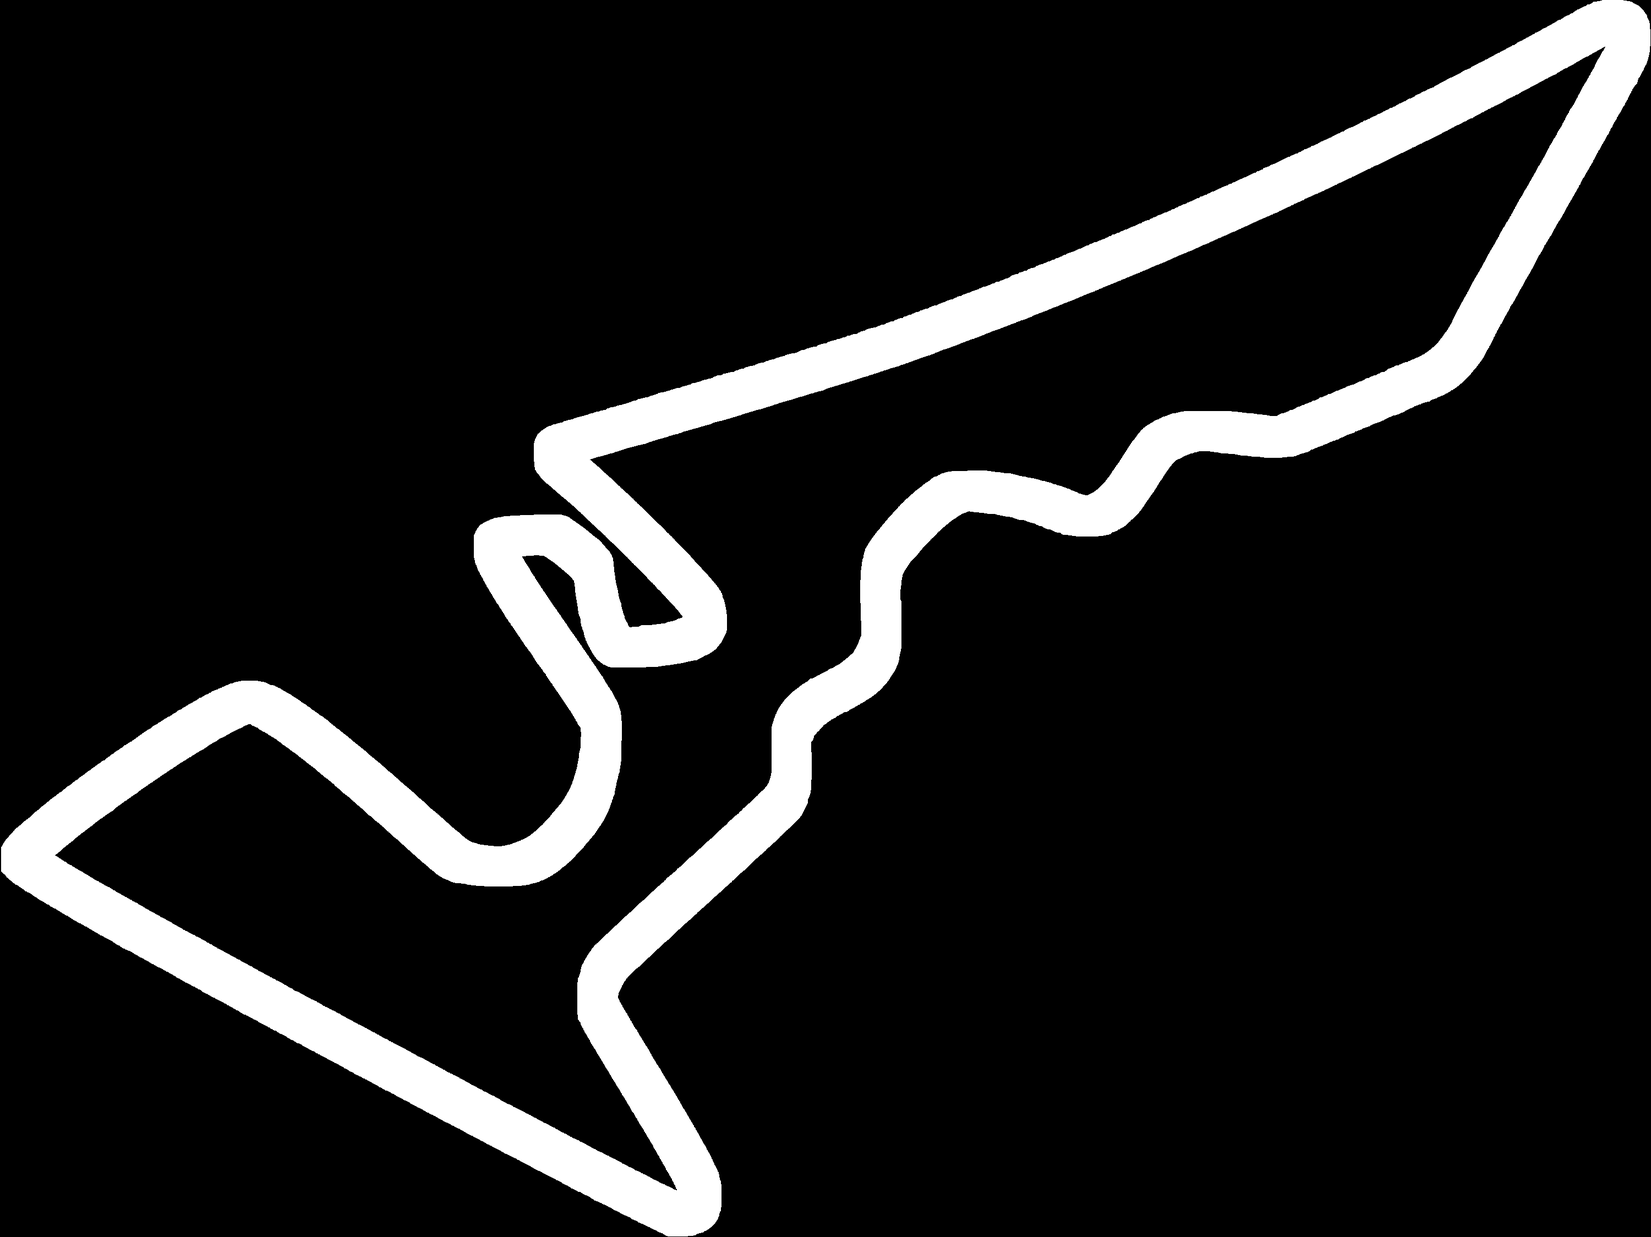
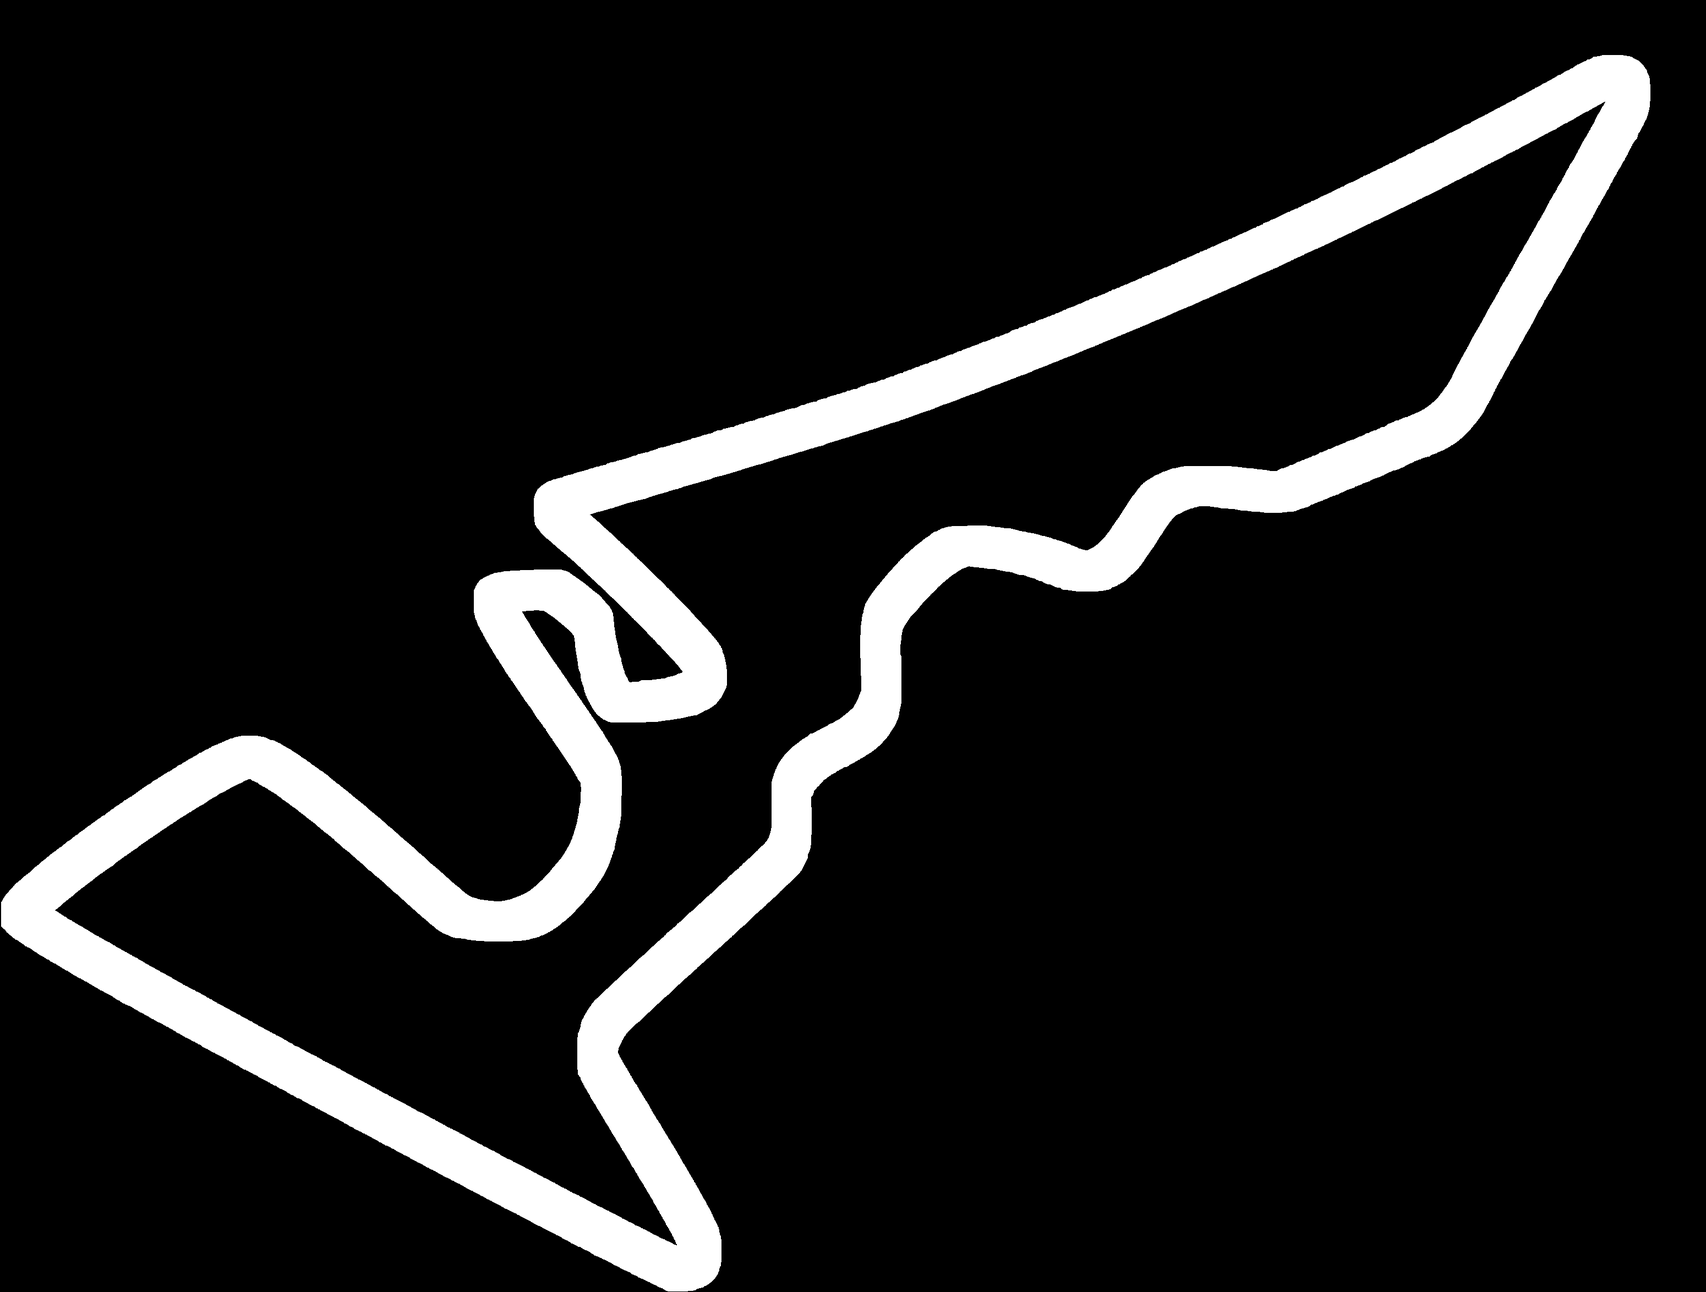
close COTA map boundary and adopt two-lap flying, out-lap, standing and robustness evaluation protocol

diff --git a/src/racing_line_learner/eval/laps.py b/src/racing_line_learner/eval/laps.py
@@ -1,63 +1,95 @@
-"""Lap-time evaluation: flying laps, standing starts and start-point robustness.
+"""Lap-time evaluation protocol.
 
-Three modes, all with a deterministic policy:
+All modes use a deterministic policy and start points derived from track
+geometry only (never chosen from model results):
 
 ``flying`` (headline)
-    Like qualifying: spawn about a tenth of a lap (at least 50 m) before the
-    start/finish line (:meth:`Track.flying_start_waypoint`), build speed on
-    the out-lap, time one lap from line to line.
-``standing``
-    From the track's start pose, clock running from rest, one lap to the line.
-``robustness``
-    One lap from each of ``n_starts`` points spread around the track (timed
-    back to the start point). A reliability diagnostic, not a lap-time metric.
+    Like qualifying: start on the grid, drive one untimed warm-up lap, then
+    time lap 2 from start/finish line to start/finish line. The car crosses
+    the line in its mid-race state, so no out-lap start point is involved.
+``outlap`` (cheap stand-in for ``flying``)
+    Start a fixed distance before the line (:meth:`Track.outlap_start_waypoint`,
+    moved to a corner exit if it falls mid-corner) and time one lap. Valid for
+    a track when its line-crossing speed matches the two-lap protocol's
+    (compare ``line_speed_mean`` of the two modes).
+``standing`` (diagnostic)
+    From the grid, clock running from rest, one lap.
+``robustness`` (diagnostic)
+    One lap from each of ``n_starts`` points spread around the track, timed
+    back to the start point. Measures reliability, not pace.
 
-The simulator and a deterministic policy are exactly repeatable, so flying and
-standing laps are run ``repeats`` times from start poses perturbed by small
-Gaussian offsets (``jitter_xy`` metres, ``jitter_theta`` radians) to get a
-mean and spread.
+The simulator and a deterministic policy are exactly repeatable, so flying,
+out-lap and standing laps are run ``repeats`` times from start poses with small
+Gaussian offsets (``jitter_xy`` metres, ``jitter_theta`` radians) to get a mean
+and spread.
 """
 
 from dataclasses import replace
-from typing import Any, Dict, List, Optional, Sequence
+from typing import Any, Dict, List, Sequence
 
 import numpy as np
 
 from ..config import EnvConfig
 
-MODES = ("flying", "standing", "robustness")
-DEFAULT_MAX_SIM_STEPS = 30000   # 300 s: generous for one lap plus an out-lap
+MODES = ("flying", "outlap", "standing", "robustness")
+DEFAULT_MAX_SIM_STEPS = 30000   # 300 s: two laps on every registered track
 
 
 def _r(x, nd=2):
     return None if x is None else round(float(x), nd)
 
 
-def drive(model, env, pose=None, spawn_idx=None, max_policy_steps: int = 20000) -> Dict[str, Any]:
-    """One deterministic episode; returns how it ended and the lap time if any."""
+def drive(model, env, pose=None, spawn_idx=None, max_policy_steps: int = 40000) -> Dict[str, Any]:
+    """One deterministic episode: how it ended, every lap time, and the speed at each line crossing."""
     obs = env.reset(pose=pose) if pose is not None else env.reset(spawn_idx=spawn_idx)
+    timer = getattr(env, "_lap_timer", None)
+    line_timing = env.config.lap_timing == "line"
     info: Dict[str, Any] = {}
     speeds: List[float] = []
+    laps: List[float] = []
+    line_speeds: List[float] = []
+    was_running = bool(timer.running) if line_timing else True
     for _ in range(max_policy_steps):
         action, _ = model.predict(obs, deterministic=True)
         obs, _, done, info = env.step(action)
         speeds.append(info.get("speed", 0.0))
+        if "lap_time" in info:
+            laps.append(info["lap_time"])
+            line_speeds.append(info.get("speed", 0.0))
+        elif line_timing and timer.running and not was_running:   # clock started at the line (out-lap)
+            line_speeds.append(info.get("speed", 0.0))
+        if line_timing:
+            was_running = bool(timer.running)
         if done:
             break
     return {
         "termination": info.get("termination"),
-        "lap_time": _r(info.get("lap_time"), 3),
+        "lap_times": [_r(t, 3) for t in laps],
+        "line_speeds": [_r(v) for v in line_speeds],
         "waypoint": info.get("current_waypoint_idx"),
         "mean_speed": _r(np.mean(speeds)) if speeds else None,
         "max_speed": _r(np.max(speeds)) if speeds else None,
     }
 
 
-def _summary(runs: Sequence[Dict[str, Any]]) -> Dict[str, Any]:
-    laps = [r["lap_time"] for r in runs if r["termination"] == "lap_complete" and r["lap_time"] is not None]
+def _timed(run: Dict[str, Any], mode: str):
+    """The lap that counts for a mode, and the speed when its clock started (None if not completed)."""
+    if run["termination"] != "lap_complete":
+        return None, None
+    if mode == "flying":   # lap 2; its clock started as lap 1 finished
+        return (run["lap_times"][1], run["line_speeds"][0]) if len(run["lap_times"]) >= 2 else (None, None)
+    if mode == "outlap":
+        return run["lap_times"][0], (run["line_speeds"][0] if run["line_speeds"] else None)
+    return run["lap_times"][0], None
+
+
+def _summary(runs: Sequence[Dict[str, Any]], mode: str) -> Dict[str, Any]:
+    timed = [_timed(r, mode) for r in runs]
+    laps = [t for t, _ in timed if t is not None]
+    line_speeds = [v for t, v in timed if t is not None and v is not None]
     fails: Dict[int, int] = {}
-    for r in runs:
-        if r["termination"] != "lap_complete":
+    for r, (t, _) in zip(runs, timed):
+        if t is None:
             fails[r["waypoint"]] = fails.get(r["waypoint"], 0) + 1
     return {
         "runs": len(runs),
@@ -66,15 +98,16 @@ def _summary(runs: Sequence[Dict[str, Any]]) -> Dict[str, Any]:
         "lap_time_mean": _r(np.mean(laps), 3) if laps else None,
         "lap_time_std": _r(np.std(laps), 3) if len(laps) > 1 else None,
         "lap_time_best": _r(min(laps), 3) if laps else None,
+        "line_speed_mean": _r(np.mean(line_speeds)) if line_speeds else None,
         "failures_at": [{"waypoint": w, "count": n} for w, n in sorted(fails.items(), key=lambda kv: -kv[1])],
     }
 
 
-def eval_config(config: EnvConfig, lap_timing: str) -> EnvConfig:
-    """The training config with curricula off, one-lap episodes and the given lap timing."""
+def eval_config(config: EnvConfig, lap_timing: str, laps: int = 1) -> EnvConfig:
+    """The training config with curricula off, ``laps``-lap episodes and the given lap timing."""
     if config.reward_mode != "laptime":
         lap_timing = "spawn"   # line timing needs the racing-line projection (laptime mode)
-    return replace(config, spawn_random=0.0, spawn_mix=0.0, spawn_waypoints=(), max_laps=1,
+    return replace(config, spawn_random=0.0, spawn_mix=0.0, spawn_waypoints=(), max_laps=laps,
                    lap_timing=lap_timing, max_episode_steps=DEFAULT_MAX_SIM_STEPS)
 
 
@@ -86,33 +119,34 @@ def evaluate(model, track, config: EnvConfig, modes: Sequence[str] = MODES, repe
     from ..env.wrapper import make_env
 
     track = track if isinstance(track, Track) else load_track(track)
-    rng = np.random.RandomState(seed)
-
-    def jittered(pose):
-        x, y, th = pose
-        return (x + rng.normal(0, jitter_xy), y + rng.normal(0, jitter_xy), th + rng.normal(0, jitter_theta))
-
     out: Dict[str, Any] = {"track": track.name}
     for mode in modes:
         if mode not in MODES:
             raise ValueError(f"unknown mode {mode!r}; choose from {MODES}")
-        if mode == "flying" and config.reward_mode != "laptime":
-            out[mode] = {"skipped": "flying laps need lap_timing='line' (laptime-mode models only)"}
+        if mode == "outlap" and config.reward_mode != "laptime":
+            out[mode] = {"skipped": "out-laps need lap_timing='line' (laptime-mode models only)"}
             continue
-        env = make_env(track, eval_config(config, "spawn" if mode == "robustness" else "line"), seed=seed)
+        rng = np.random.RandomState(seed)   # same offsets for every mode and model
+
+        def jittered(pose):
+            x, y, th = pose
+            return (x + rng.normal(0, jitter_xy), y + rng.normal(0, jitter_xy), th + rng.normal(0, jitter_theta))
+
+        timing = "spawn" if mode == "robustness" else "line"
+        env = make_env(track, eval_config(config, timing, laps=2 if mode == "flying" else 1), seed=seed)
         try:
             if mode == "robustness":
                 n = track.n_waypoints
                 starts = [None] + [int(i) for i in np.linspace(0, n, n_starts, endpoint=False)[1:]]
                 runs = [dict(drive(model, env, spawn_idx=s), start=s) for s in starts]
             else:
-                base = track.spawn_pose(track.flying_start_waypoint()) if mode == "flying" else track.start_pose
+                base = track.spawn_pose(track.outlap_start_waypoint()) if mode == "outlap" else track.start_pose
                 runs = [dict(drive(model, env, pose=jittered(base) if k else base), repeat=k) for k in range(repeats)]
         finally:
             env.close()
-        summary = _summary(runs)
-        if mode == "flying":
-            summary["start_waypoint"] = track.flying_start_waypoint()
+        summary = _summary(runs, mode)
+        if mode == "outlap":
+            summary["start_waypoint"] = track.outlap_start_waypoint()
         summary["per_run"] = runs
         out[mode] = summary
     return out

diff --git a/tests/test_eval.py b/tests/test_eval.py
@@ -61,13 +61,27 @@ class TestLineLapTimer(unittest.TestCase):
 
 
 class TestFlyingStart(unittest.TestCase):
-    def test_out_lap_distance(self):
+    def test_outlap_start_from_geometry(self):
         for name in ("cota", "sepang", "sepang_wide"):
             t = load_track(name)
-            w = t.flying_start_waypoint()
+            w = t.outlap_start_waypoint()
             out_lap = t.length - t.cum_s[w]
-            self.assertGreaterEqual(out_lap, max(50.0, 0.1 * t.length) - 1e-6, name)
-            self.assertLess(out_lap, max(50.0, 0.1 * t.length) + 6.0, name)   # within ~2 waypoints of the target
+            self.assertGreater(w, t.n_waypoints // 2, name)                      # before the line
+            target = max(50.0, 0.1 * t.length)
+            spacing = t.length / t.n_waypoints
+            # At least the target distance (the last waypoint before it), unless moved forward out of a corner.
+            self.assertLessEqual(out_lap, target + 1.5 * spacing, name)
+            self.assertGreater(out_lap, 20.0, name)                               # still a real out-lap
+            self.assertGreaterEqual(t.grip_speed_limit()[w], 12.0, name)         # never mid-corner
+
+    def test_outlap_moves_to_corner_exit(self):
+        t = load_track("cota")
+        grip = t.grip_speed_limit()
+        corner = next(i for i in range(120, 145) if grip[i] < 12.0 and grip[i + 1] < 12.0)
+        spec_w = t.outlap_start_waypoint(min_out_lap_m=t.length - t.cum_s[corner], out_lap_fraction=0.0)
+        self.assertGreater(spec_w, corner)
+        self.assertTrue(np.all(grip[corner:spec_w] < 12.0))
+        self.assertGreaterEqual(grip[spec_w], 12.0)
 
     def test_config_validation(self):
         with self.assertRaises(ValueError):
@@ -105,6 +119,17 @@ class TestLineTimingInSimulator(unittest.TestCase):
         self.assertTrue(env._lap_timer.running)
         self.assertNotEqual(info["termination"], "lap_complete")
 
+    def test_simulator_lap_limit_disabled_with_line_timing(self):
+        from racing_line_learner.env.wrapper import make_env
+        env = make_env("sepang", replace(get_preset("v2"), spawn_random=0.0, lap_timing="line", max_laps=2))
+        self.addCleanup(env.close)
+        obs = env.reset()                                  # spawned on the line, inside the simulator's start zone
+        for _ in range(50):
+            obs, _, done, _ = env.step(np.array([0.0, -0.5], dtype=np.float32))
+            self.assertLess(float(env.env.unwrapped.toggle_list[0]), 2)
+            if done:
+                break
+
     def test_standing_start_runs_clock_from_rest(self):
         from racing_line_learner.env.wrapper import make_env
         env = make_env("sepang", replace(get_preset("v2"), spawn_random=0.0, lap_timing="line", max_laps=1))
@@ -126,17 +151,25 @@ class TestLineTimingInSimulator(unittest.TestCase):
             res = evaluate(driver, "cota", cfg, repeats=2, n_starts=3)
         finally:
             laps.DEFAULT_MAX_SIM_STEPS = old
-        self.assertEqual(res["flying"]["runs"], 2)
-        self.assertEqual(res["standing"]["runs"], 2)
-        self.assertEqual(res["robustness"]["runs"], 3)
-        self.assertEqual(res["flying"]["start_waypoint"], load_track("cota").flying_start_waypoint())
-        for mode in ("flying", "standing", "robustness"):
+        for mode, n in (("flying", 2), ("outlap", 2), ("standing", 2), ("robustness", 3)):
+            self.assertEqual(res[mode]["runs"], n, mode)
+        self.assertEqual(res["outlap"]["start_waypoint"], load_track("cota").outlap_start_waypoint())
+        for mode in ("flying", "outlap", "standing", "robustness"):
             for run in res[mode]["per_run"]:
                 self.assertIn(run["termination"], ("time_limit", "collision", "stagnation", "lap_complete"))
 
-    def test_legacy_model_skips_flying(self):
+    def test_legacy_model_uses_simulator_laps(self):
         from racing_line_learner.eval.laps import eval_config
-        self.assertEqual(eval_config(EnvConfig(), "line").lap_timing, "spawn")
+        cfg = eval_config(EnvConfig(), "line", laps=2)
+        self.assertEqual((cfg.lap_timing, cfg.max_laps), ("spawn", 2))
+
+    def test_timed_lap_selection(self):
+        from racing_line_learner.eval.laps import _summary
+        runs = [{"termination": "lap_complete", "lap_times": [47.0, 45.0], "line_speeds": [12.0, 11.5], "waypoint": 0},
+                {"termination": "collision", "lap_times": [46.8], "line_speeds": [12.1], "waypoint": 72}]
+        s = _summary(runs, "flying")
+        self.assertEqual((s["completed"], s["lap_time_mean"], s["line_speed_mean"]), (1, 45.0, 12.0))
+        self.assertEqual(s["failures_at"], [{"waypoint": 72, "count": 1}])
 
 
 if __name__ == "__main__":

diff --git a/src/racing_line_learner/env/tracks.py b/src/racing_line_learner/env/tracks.py
@@ -38,8 +38,8 @@ class TrackSpec:
     map_ext: str = ".png"
     #: Default start ``(x, y, theta)``; ``None`` = waypoint 0, facing along the line.
     start_pose: Optional[Tuple[float, float, float]] = None
-    #: Out-lap start for flying laps; ``None`` = exit of the last tight corner before the line.
-    flying_start: Optional[int] = None
+    #: Out-lap start waypoint; ``None`` = derived from geometry (:meth:`Track.outlap_start_waypoint`).
+    outlap_start: Optional[int] = None
 
 
 #: Known tracks. ``cota`` is Circuit of the Americas (Austin). Its files were
@@ -94,7 +94,7 @@ class Track:
     """A loaded track: map location plus closed racing-line geometry."""
 
     def __init__(self, name: str, map_path: Path, map_ext: str, waypoints: np.ndarray,
-                 start_pose: Optional[Tuple[float, float, float]] = None, flying_start: Optional[int] = None):
+                 start_pose: Optional[Tuple[float, float, float]] = None, outlap_start: Optional[int] = None):
         wp = np.asarray(waypoints, dtype=np.float64)
         if wp.ndim != 2 or wp.shape[1] != 2 or len(wp) < 3:
             raise ValueError("waypoints must be an (N>=3, 2) array")
@@ -104,7 +104,7 @@ class Track:
         self.waypoints = wp
         self.n_waypoints = len(wp)
         self._start_pose = start_pose
-        self._flying_start = flying_start
+        self._outlap_start = outlap_start
 
         # Segment i runs from waypoint i to waypoint i+1 (the last one closes the loop).
         self.seg_vec = np.roll(wp, -1, axis=0) - wp
@@ -148,20 +148,25 @@ class Track:
         """Default start pose: the registered one, else waypoint 0 facing along the line."""
         return tuple(self._start_pose) if self._start_pose is not None else self.spawn_pose(0)
 
-    def flying_start_waypoint(self, out_lap_fraction: float = 0.1, min_out_lap_m: float = 50.0) -> int:
-        """Where a flying lap's out-lap starts: a fixed distance back from the start/finish line.
+    def outlap_start_waypoint(self, out_lap_fraction: float = 0.1, min_out_lap_m: float = 50.0,
+                              corner_grip: float = 12.0) -> int:
+        """Start of a short out-lap: a fixed distance before the start/finish line, never mid-corner.
 
-        The out-lap is ``max(min_out_lap_m, out_lap_fraction * length)`` metres,
-        so it includes the corners before the line and the car crosses it at
-        racing speed (starting just after the last corner fails on tracks
-        whose last corner sits right before the line, like COTA's). A
-        registered ``flying_start`` overrides it.
+        Goes back ``max(min_out_lap_m, out_lap_fraction * length)`` metres from
+        the line; if that waypoint is inside a corner (grip limit below
+        ``corner_grip`` m/s), moves forward to the corner's exit. Depends only
+        on track geometry, never on a model. A registered ``outlap_start``
+        overrides it.
         """
-        if self._flying_start is not None:
-            return int(self._flying_start)
+        if self._outlap_start is not None:
+            return int(self._outlap_start)
         out_lap = min(max(min_out_lap_m, out_lap_fraction * self.length), 0.5 * self.length)
         # Last waypoint at least `out_lap` metres before the line.
-        return int(np.searchsorted(self.cum_s, self.length - out_lap, side="right") - 1) % self.n_waypoints
+        w = int(np.searchsorted(self.cum_s, self.length - out_lap, side="right") - 1) % self.n_waypoints
+        grip = self.grip_speed_limit()
+        while grip[w] < corner_grip and w < self.n_waypoints - 1:
+            w += 1
+        return w
 
     @property
     def has_custom_start(self) -> bool:
@@ -297,4 +302,4 @@ def load_track(track: Union[str, TrackSpec]) -> Track:
         if not Path(str(map_path) + ext).exists():
             raise FileNotFoundError(f"track {spec.name!r}: missing {map_path}{ext}")
     return Track(spec.name, map_path, spec.map_ext, load_waypoints_csv(_resolve(spec.waypoints_csv)), spec.start_pose,
-                 spec.flying_start)
+                 spec.outlap_start)

diff --git a/src/racing_line_learner/eval/__main__.py b/src/racing_line_learner/eval/__main__.py
@@ -20,7 +20,7 @@ def main(argv=None):
     p.add_argument("--env", action="append", default=[], metavar="KEY=VALUE")
     p.add_argument("--tracks", nargs="+", default=["cota"])
     p.add_argument("--modes", nargs="+", default=list(MODES), choices=MODES)
-    p.add_argument("--repeats", type=int, default=5, help="Jittered repeats for flying/standing laps.")
+    p.add_argument("--repeats", type=int, default=5, help="Jittered repeats for flying/outlap/standing laps.")
     p.add_argument("--n_starts", type=int, default=16, help="Start points for the robustness mode.")
     p.add_argument("--seed", type=int, default=0)
     p.add_argument("--json", default=None, help="Write full results (with per-run details) here.")
@@ -33,7 +33,7 @@ def main(argv=None):
     results = {"model": args.model, "preset": args.preset,
                "tracks": [evaluate(model, t, config, args.modes, args.repeats, args.n_starts, seed=args.seed)
                           for t in args.tracks]}
-    print(f"{'track':12s} {'mode':11s} {'laps':>7s} {'mean':>8s} {'std':>6s} {'best':>8s}  failures")
+    print(f"{'track':12s} {'mode':11s} {'laps':>7s} {'mean':>8s} {'std':>6s} {'best':>8s} {'v@line':>7s}  failures")
     for tr in results["tracks"]:
         for mode in args.modes:
             s = tr[mode]
@@ -43,7 +43,7 @@ def main(argv=None):
             fmt = lambda v, w: f"{v:>{w}}" if v is not None else f"{'-':>{w}}"
             fails = ", ".join(f"wp{f['waypoint']}x{f['count']}" for f in s["failures_at"][:4]) or "-"
             print(f"{tr['track']:12s} {mode:11s} {s['completed']:>3d}/{s['runs']:<3d} {fmt(s['lap_time_mean'], 8)} "
-                  f"{fmt(s['lap_time_std'], 6)} {fmt(s['lap_time_best'], 8)}  {fails}")
+                  f"{fmt(s['lap_time_std'], 6)} {fmt(s['lap_time_best'], 8)} {fmt(s['line_speed_mean'], 7)}  {fails}")
     if args.json:
         Path(args.json).write_text(json.dumps(results, indent=2))
     return results

diff --git a/src/racing_line_learner/env/wrapper.py b/src/racing_line_learner/env/wrapper.py
@@ -244,6 +244,13 @@ class F1TenthWrapper(gym.Wrapper):
             obs, _, env_done, info = self.env.step(np.array([[steer, speed]]))
             self.last_raw_obs = obs
             self.sim_steps += 1
+            if c.lap_timing == "line":
+                # The simulator ends its episode after 2 laps around the *spawn* pose. With
+                # line timing our own timer decides; keep the simulator's counter below its
+                # limit (it moves by at most 1 per step, and its parity tracks "near start").
+                sim = self.env.unwrapped
+                if hasattr(sim, "toggle_list"):
+                    sim.toggle_list %= 2
 
             collision = bool(obs["collisions"][0])
             agent_pos = np.array([obs["poses_x"][0], obs["poses_y"][0]])
